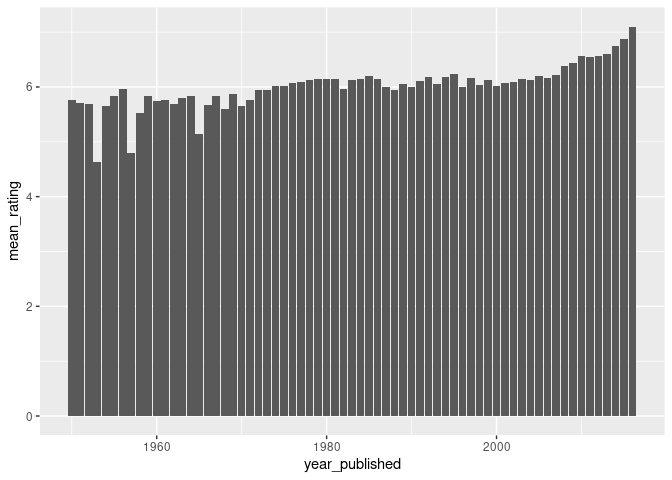
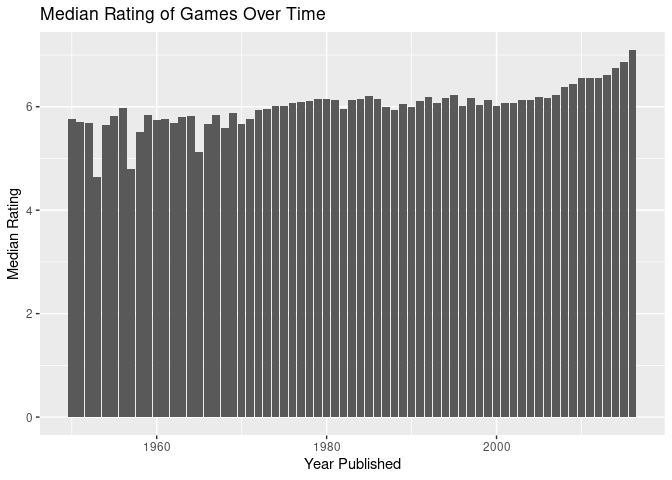
Add labs to chart

diff --git a/proposal/proposal.md b/proposal/proposal.md
@@ -111,7 +111,10 @@ board_games %>%
   group_by(year_published) %>% 
   summarize(mean_rating = mean(average_rating)) %>% 
   ggplot(aes(x = year_published, y = mean_rating)) +
-  geom_col()
+  geom_col() +
+    labs(title = "Median Rating of Games Over Time",
+       x = "Year Published", 
+       y = "Median Rating")
 ```
 
 ![](proposal_files/figure-gfm/year-average-rating-1.png)<!-- -->
